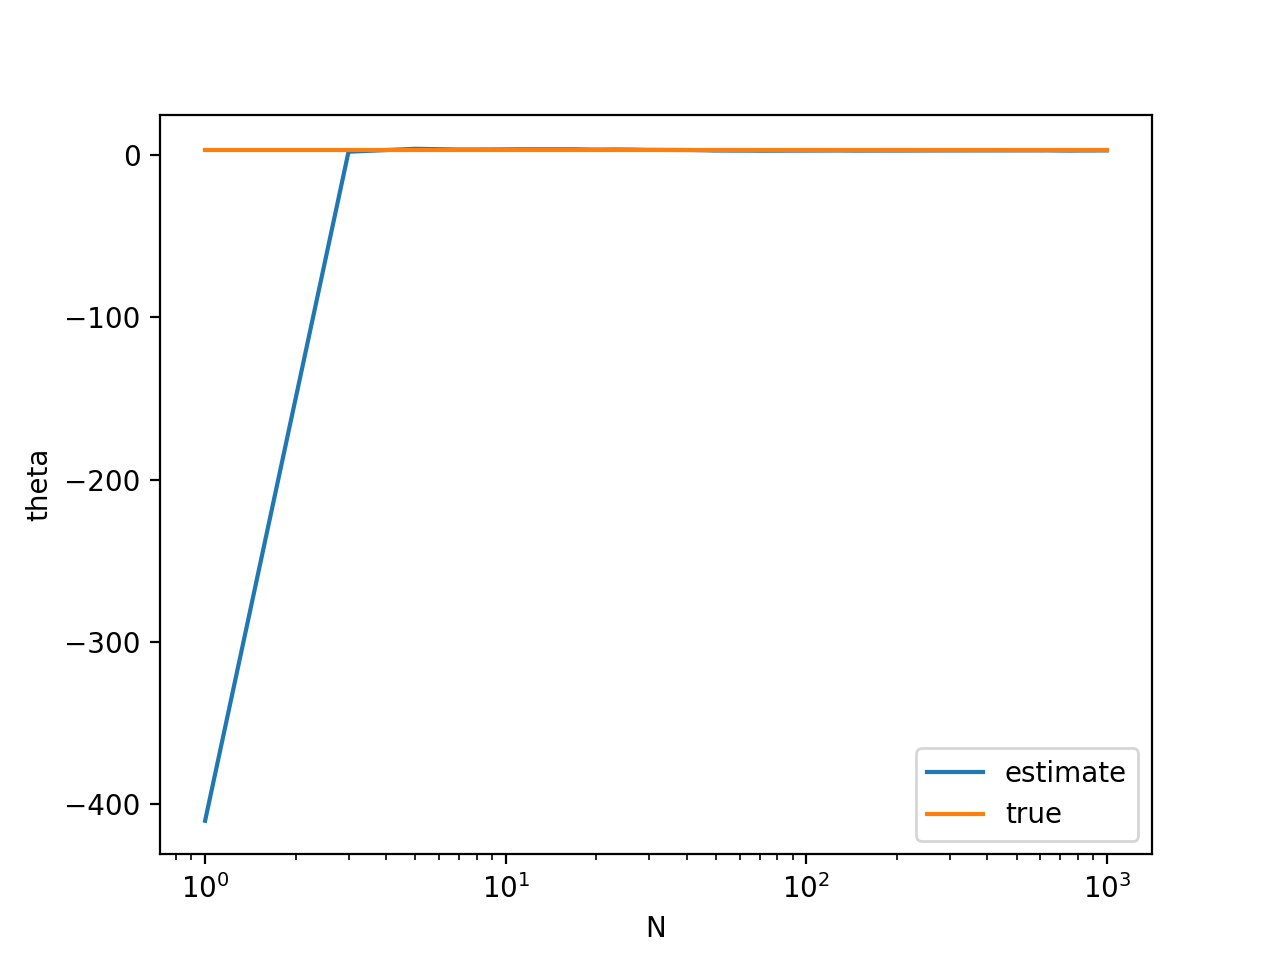
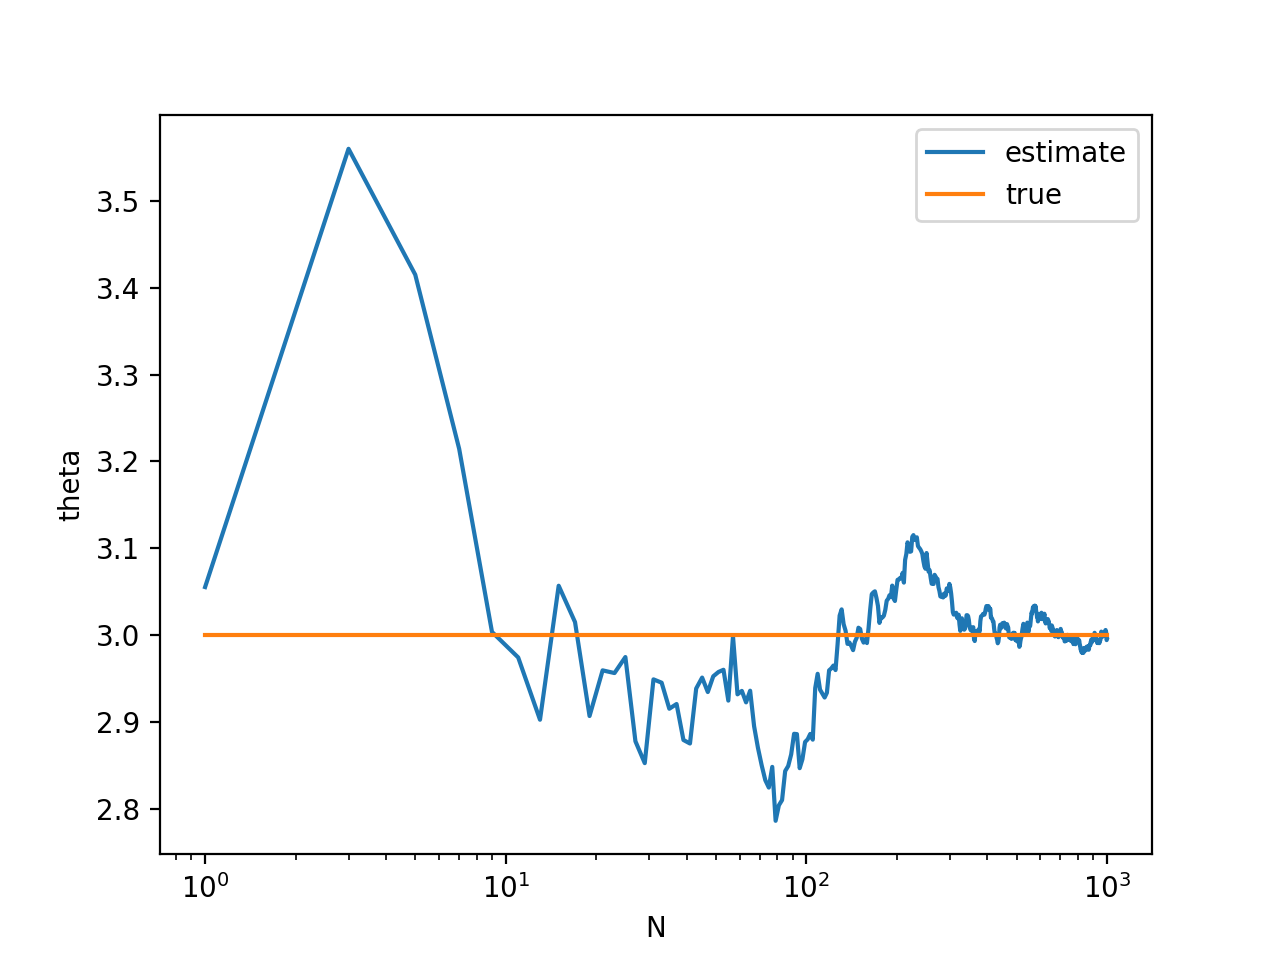
修正したよ

diff --git a/12.py b/12.py
@@ -67,10 +67,10 @@ x = np.array(data[:,0])
 y = np.array(data[:,1:3])
 
 ans_6_5 = calc_theta_6_5(x, y, N)
-#print(ans_6_5[0], ans_6_5[1])
+print(ans_6_5[0], ans_6_5[1])
 
 ans_6_17 = calc_theta_6_17(x, y, N)
-#print(ans_6_17[0], ans_6_17[1])
+print(ans_6_17[0], ans_6_17[1])
 
 
 theta_0_list = []
@@ -90,10 +90,11 @@ for k in range(1,N):
     real_ans_2_list.append(3.0)
     real_ans_3_list.append(-2.0)
 
-    x = np.array(data[0:k+1,0])
-    y = np.array(data[0:k+1,1:3])
+    x = np.array(data[0:k,0])
+    y = np.array(data[0:k,1:3])
     #print(x.shape)
-    
+    if k==4:
+        print(x)
     theta_0 = calc_theta_6_5(x, y, k)[0][0]
     theta_1 = calc_theta_6_5(x, y, k)[0][1]
     theta_2 = calc_theta_6_17(x, y, k)[0][0]
@@ -143,3 +144,10 @@ plt.xscale('log')
 plt.xlabel('N')
 plt.ylabel('theta')
 plt.show()
+
+'''
+[ 2.99456713 -2.06897079] [[ 0.03514546 -0.01251624]
+[-0.01251624  0.01086049]]
+[ 2.93908407 -1.98646467] [[ 0.23999299 -0.09665406]
+[-0.09665406  0.0499126 ]]
+'''

diff --git a/13.py b/13.py
@@ -74,7 +74,7 @@ def calc_theta_6_17(x, y, data_num):
 
     return theta, Err_mat
 
-df = pd.read_csv("./suri_jikken6_data/mmse_kadai5.txt",header=None)
+df = pd.read_csv("./suri_jikken6_data/mmse_kadai6.txt",header=None)
 data = np.array(df)
 
 x = np.array(data[:,0])
@@ -104,8 +104,8 @@ for k in range(1,N,2):
     real_ans_2_list.append(3.0)
     real_ans_3_list.append(-2.0)
 
-    x = np.array(data[0:k+1,0])
-    y = np.array(data[0:k+1,1:3])
+    x = np.array(data[0:k,0])
+    y = np.array(data[0:k,1:3])
     #print(x.shape)
     
     theta_0 = calc_theta_6_5(x, y, k)[0][0]
@@ -157,3 +157,8 @@ plt.xscale('log')
 plt.xlabel('N')
 plt.ylabel('theta')
 plt.show()
+
+'''
+[ 3.18835631 -2.09218316]
+[ 2.9942022  -2.01469917]
+'''

diff --git a/9.py b/9.py
@@ -28,7 +28,8 @@ V_n_hat_kari = y - np.dot(phi(x), real_ans)
 V_n_hat_kari = np.dot(V_n_hat_kari, np.transpose(V_n_hat_kari))
 V_n_hat = V_n_hat_kari / (N - n)
 Phi = la.inv(np.dot(np.transpose(phi(x)),phi(x)))
-Err_mat = Phi.dot(V_n_hat * x.T.dot(x)).dot(Phi)
+print("比較",Phi)
+Err_mat = Phi.dot(V_n_hat * phi(x).T.dot(phi(x))).dot(Phi)
 print(Err_mat)
 
 theta_0_list = []

diff --git a/10.py b/10.py
@@ -37,6 +37,7 @@ for i in range(1,14):
 
     x = np.array(data[0:data_num,0:2])
     y = np.array(data[0:data_num,2])
+
     y = np.reshape(y, (data_num,1))
     theta_0 = calc_theta(x, y)[0][0]
     theta_1 = calc_theta(x, y)[1][0]
